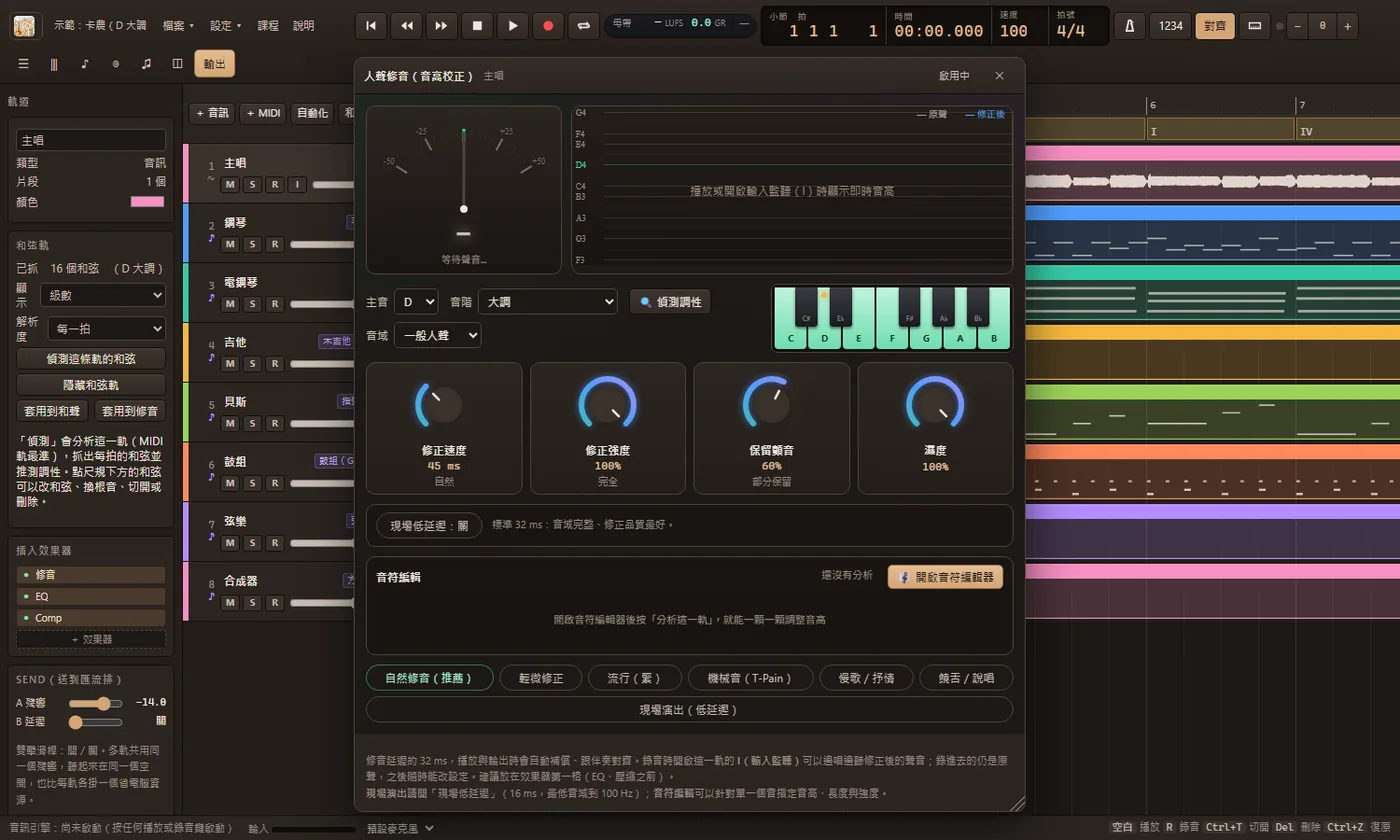
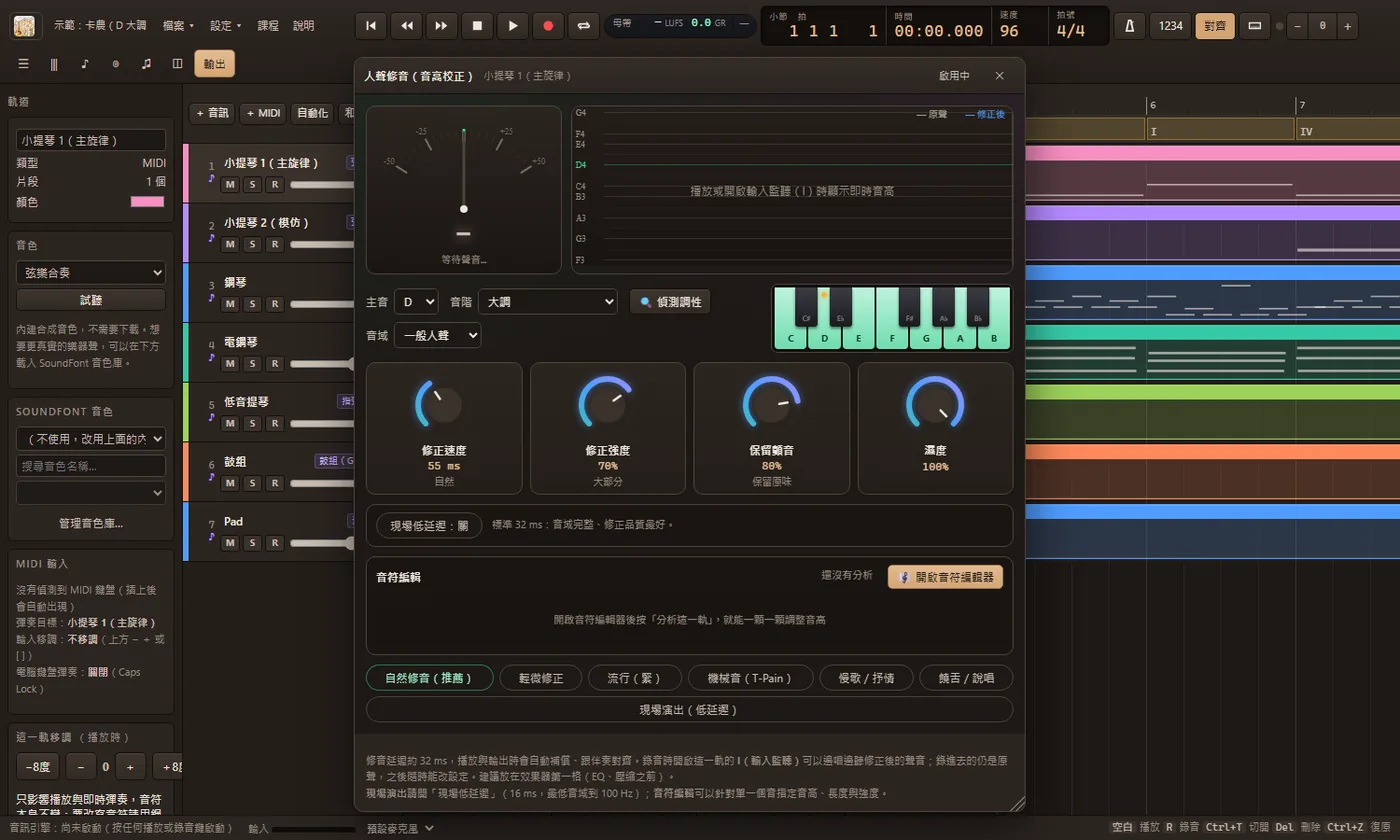
feat(daw): 卡農示範曲改弦樂版——取消合成人聲、加修音與自動化
- 人聲軌換成兩部小提琴：主旋律與晚兩小節、低八度的模仿聲部（卡農本來的寫法）
- 24 小節三段：A 室內樂（弦樂＋鋼琴分解＋電鋼琴）→ B 加低音提琴與鼓
  → C 全奏（八度齊奏、Pad、16 分鋼琴、過門）
- 弦樂主旋律加上音量自動化，整首慢慢推上來、最後兩小節收掉
- 小提琴 1 掛「人聲修音」（修音不是只能用在人聲），第 15 堂改用它示範
- 課程第 1、15 堂文字與 8 張主圖同步更新（統一用木質深色）

diff --git a/daw-studio/js/demo-project.js b/daw-studio/js/demo-project.js
@@ -315,7 +315,10 @@ export function seedDemo() {
     ],
   };
 
-  // 弦樂掛 EQ 修掉刺耳高頻，鼓與貝斯各掛一顆壓縮
+  // 弦樂主旋律：先修音準，再 EQ 修掉刺耳高頻（修音不是只能用在人聲）
+  const tune = newFx('tune');
+  tune.params.key = 2; tune.params.scale = 0; tune.params.retune = 55; tune.params.amount = 70; tune.params.vibrato = 80;
+  vln1.inserts.push(tune);
   const eq = newFx('eq');
   eq.params.bands[0].on = true; eq.params.bands[0].freq = 180;
   eq.params.bands[5].gain = -1.5; eq.params.bands[6].gain = 1;

diff --git a/content/dawcourse/01.md b/content/dawcourse/01.md
@@ -47,4 +47,4 @@ image: /assets/daw-course/course-overview.webp
 3. 按 **X** 打開混音台、再按一次關掉；按 **P** 打開鋼琴捲簾。
 
 <div class="daw-tip">
-<b>課程用的示範專案</b>：在網址後面加上 <code>?demo=1</code>（例如 <code>/tools/daw/?demo=1</code>）會載入示範曲「卡農（D 大調）」：16 小節、100 BPM，和聲與低音取自 Pachelbel 的《Canon in D》（約 1680 年，已進入公有領域），也就是市面上最常拿來練編曲的「卡農進行」D–A–Bm–F#m–G–D–G–A。八條軌分別是主唱（無詞哼唱）、鋼琴、電鋼琴、吉他、貝斯、鼓、弦樂與合成器；旋律節奏與配器都是原創，沒有轉錄任何受保護的編曲或歌詞，可以自由使用。</div>
+<b>課程用的示範專案</b>：在網址後面加上 <code>?demo=1</code>（例如 <code>/tools/daw/?demo=1</code>）會載入示範曲「卡農（D 大調・弦樂）」：24 小節、96 BPM，和聲與低音取自 Pachelbel 的《Canon in D》（約 1680 年，已進入公有領域），也就是市面上最常拿來練編曲的「卡農進行」D–A–Bm–F#m–G–D–G–A。七條軌分別是小提琴 1（主旋律）、小提琴 2（晚兩小節的模仿聲部）、鋼琴、電鋼琴、低音提琴、鼓與 Pad；旋律節奏與配器都是原創，沒有轉錄任何受保護的編曲或歌詞，可以自由使用。</div>

diff --git a/content/dawcourse/15.md b/content/dawcourse/15.md
@@ -43,4 +43,4 @@ image: /assets/daw-course/course-tune.webp
 
 ## 現在就做
 
-示範專案的主唱刻意唱高了 30 音分。把修正速度從 0 拉到 120 ms，聽同一個音從「機器人」變成「自然人聲」。
+示範專案把「人聲修音」掛在小提琴主旋律上（音高校正不是只能用在人聲）。把修正速度從 0 拉到 120 ms，聽同一個長音從「瞬間跳準」變成「慢慢滑準」；想練真正的人聲，就自己錄一段再套用同樣的設定。
